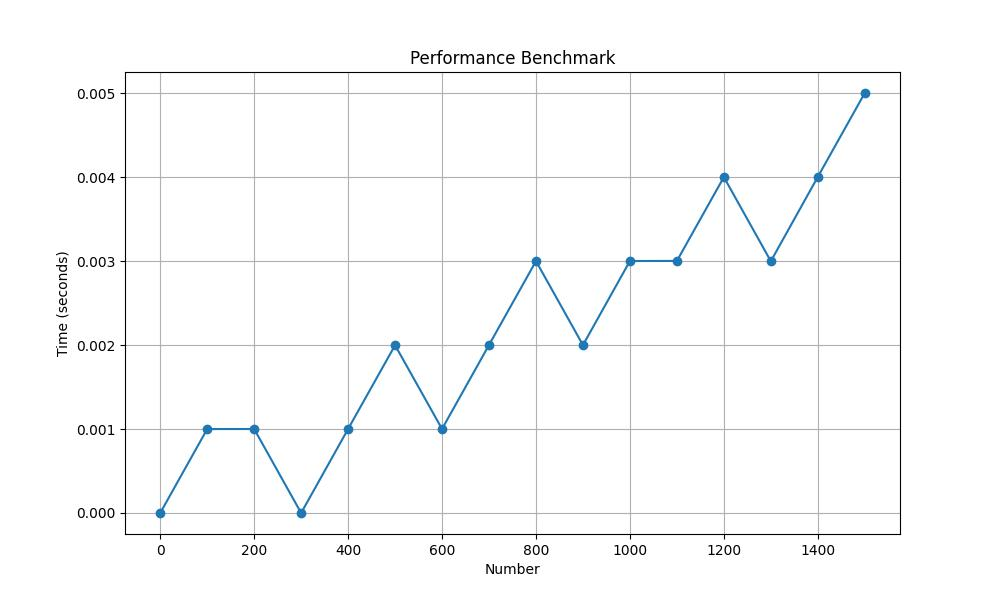
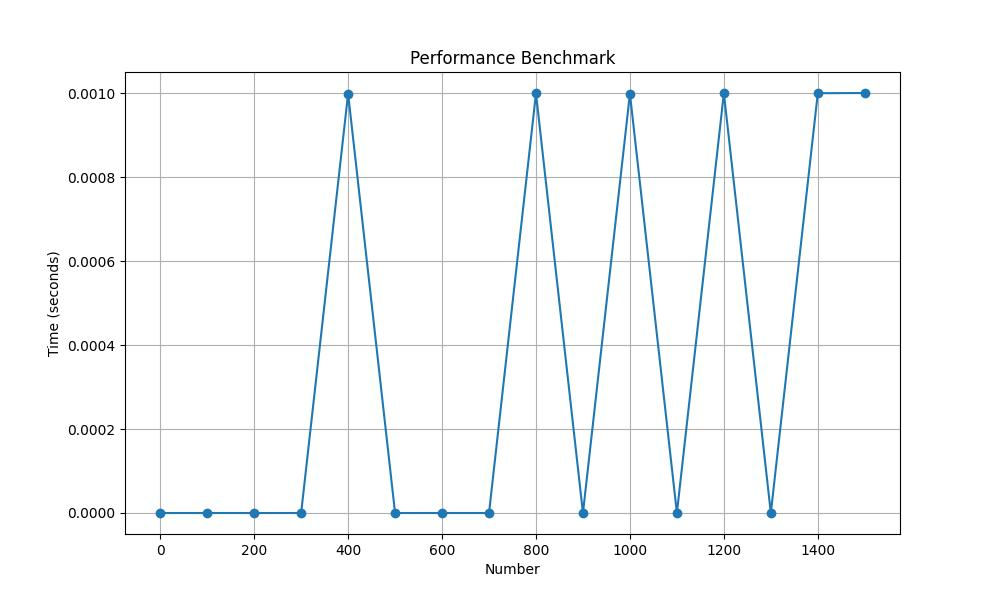
feat(improve): add new construct for improve

diff --git a/main.py b/main.py
@@ -1,53 +1,39 @@
-import math
 import argparse
 
-def divisorGenerator(n):
+def calculateDivisors(limit):
     """
-    Generate all divisors of a given number n.
+    Calculate the sum of proper divisors for each number up to the limit.
     """
-    large_divisors = []
-    for i in range(1, int(math.sqrt(n)) + 1):
-        if n % i == 0:
-            yield i
-            if i * i != n:
-                large_divisors.append(n // i)
-    for divisor in reversed(large_divisors):
-        yield divisor
+    divisors_sum = [0] * (limit + 1)
+
+    for i in range(1, limit // 2 + 1):
+        for j in range(2 * i, limit + 1, i):
+            divisors_sum[j] += i
+
+    return divisors_sum
 
 def findNumbers(limit: int, print_results: bool = True):
     """
-    Find perfect and amicable (friendship) numbers up to the given limit.
+    Find perfect and amicable numbers up to the given limit.
     """
-    numberDict = {}
-
-    # Populate the dictionary with the sum of proper divisors for each number
-    for i in range(1, limit + 1):
-        divisors = list(divisorGenerator(i))
-        if i in divisors:
-            divisors.remove(i)  # Remove the number itself to get the sum of proper divisors
-        numberDict[str(i)] = sum(divisors)
-
-    # Create a list of items to avoid modifying the dictionary while iterating
-    items = list(numberDict.items())
-
+    divisors_sum = calculateDivisors(limit)
     results = []
 
-    for key, value in items:
-        key_str = str(key)
-        value_str = str(value)
+    for i in range(1, limit + 1):
+        sum_i = divisors_sum[i]
+        if sum_i < limit + 1:
+            if i == sum_i:
+                results.append(f"I am a Perfect number: {i}")
+            elif sum_i != i and sum_i < limit + 1 and divisors_sum[sum_i] == i:
+                results.append(f"I am a friendship number: {i} and {sum_i}")
+                divisors_sum[sum_i] = 0  # Mark as processed
 
-        if value_str in numberDict:
-            if key_str == value_str:
-                results.append(f"I am a Perfect number: {key_str}, {value}")
-            elif str(numberDict[value_str]) == key_str:
-                results.append(f"I am a friendship number: {key_str}, {value}")
-                # Remove the pair from the dictionary to prevent double checking
-                numberDict.pop(value_str, None)
-                numberDict.pop(key_str, None)
-    
     if print_results:
-        for result in results:
-            print(result)
+        if results:
+            for result in results:
+                print(result)
+        else:
+            print("No perfect or amicable numbers found.")
 
 if __name__ == "__main__":
     parser = argparse.ArgumentParser(description="Find perfect and amicable numbers up to a given limit.")

diff --git a/main_gen1.py b/main_gen1.py
@@ -1,0 +1,60 @@
+import math
+import argparse
+
+def divisorGenerator(n):
+    """
+    Generate all divisors of a given number n.
+    """
+    large_divisors = []
+    for i in range(1, int(math.sqrt(n)) + 1):
+        if n % i == 0:
+            yield i
+            if i * i != n:
+                large_divisors.append(n // i)
+    for divisor in reversed(large_divisors):
+        yield divisor
+
+def findNumbers(limit: int, print_results: bool = True):
+    """
+    Find perfect and amicable (friendship) numbers up to the given limit.
+    """
+    numberDict = {}
+
+    # Populate the dictionary with the sum of proper divisors for each number
+    for i in range(1, limit + 1):
+        divisors = list(divisorGenerator(i))
+        if i in divisors:
+            divisors.remove(i)  # Remove the number itself to get the sum of proper divisors
+        numberDict[str(i)] = sum(divisors)
+
+    # Create a list of items to avoid modifying the dictionary while iterating
+    items = list(numberDict.items())
+
+    results = []
+
+    for key, value in items:
+        key_str = str(key)
+        value_str = str(value)
+
+        if value_str in numberDict:
+            if key_str == value_str:
+                results.append(f"I am a Perfect number: {key_str}, {value}")
+            elif str(numberDict[value_str]) == key_str:
+                results.append(f"I am a friendship number: {key_str}, {value}")
+                # Remove the pair from the dictionary to prevent double checking
+                numberDict.pop(value_str, None)
+                numberDict.pop(key_str, None)
+    
+    if print_results:
+        if results:
+            for result in results:
+                print(result)
+        else:
+            print("No perfect or amicable numbers found.")
+
+if __name__ == "__main__":
+    parser = argparse.ArgumentParser(description="Find perfect and amicable numbers up to a given limit.")
+    parser.add_argument("limit", type=int, nargs='?', default=1500, help="The upper limit for finding numbers (default: 1500)")
+    args = parser.parse_args()
+
+    findNumbers(args.limit)
